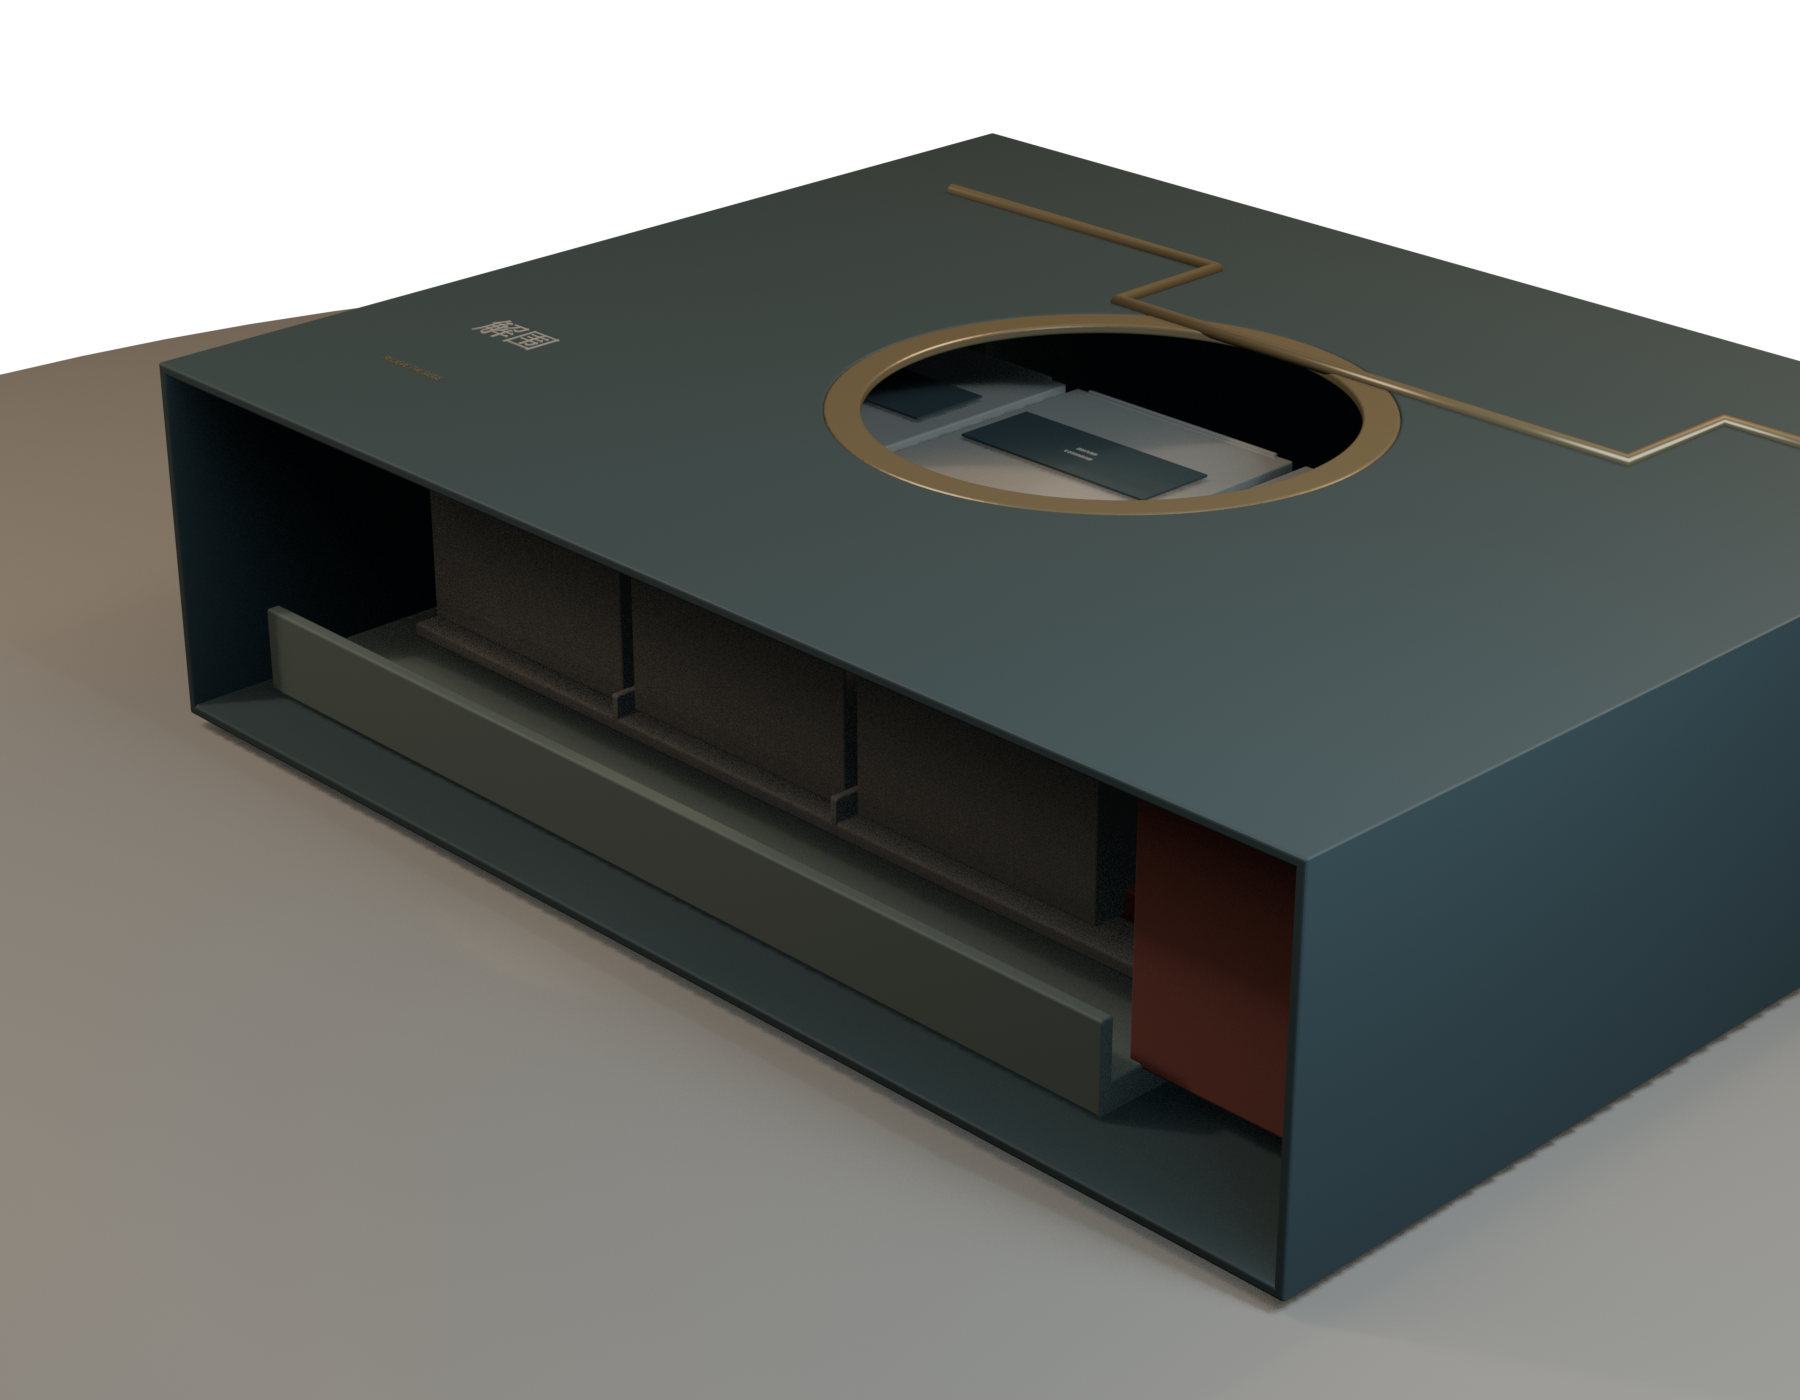
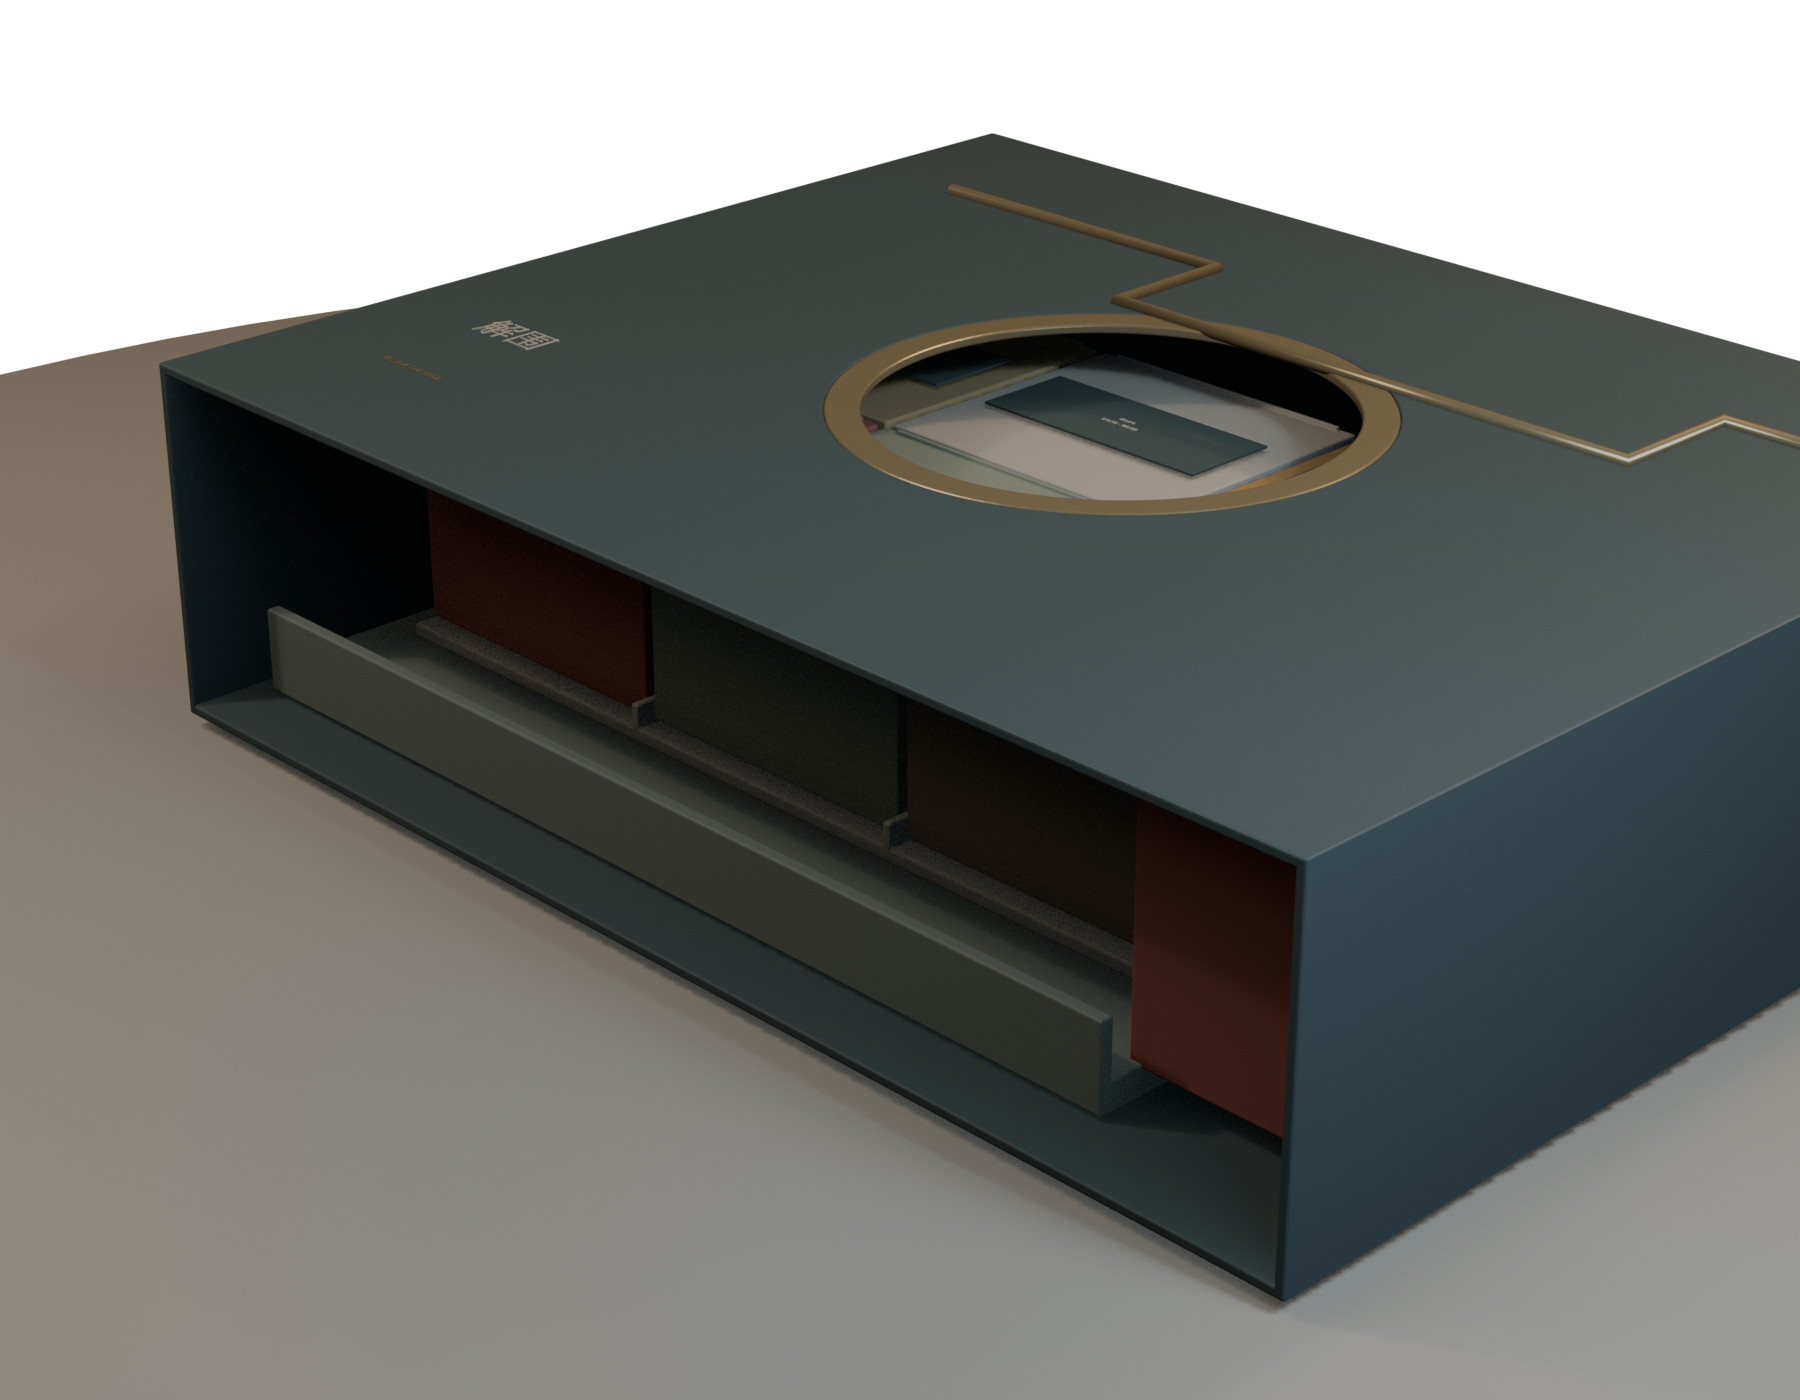
design: render realistic Jiewei concept packaging scenes

Changed region(s): [[0.4667, 0.2457, 0.7467, 0.3686], [0.3422, 0.4607, 0.3733, 0.5221], [0.4978, 0.5529, 0.5289, 0.5836]]

diff --git a/jiewei_giftbox_design/04_renders/render_giftbox.py b/jiewei_giftbox_design/04_renders/render_giftbox.py
@@ -16,21 +16,22 @@ PROJECT_DIR = RENDER_DIR.parent
 MESH_DIR = PROJECT_DIR / "03_cad" / "meshes"
 sys.path.insert(0, str(PROJECT_DIR / "scripts"))
 
-from design_config import BOX, COLORS, SKU, state_offsets  # noqa: E402
+from design_config import BOX, COLORS, CONCEPT_DISCLOSURE, PRODUCTS, state_offsets  # noqa: E402
 
 
 MM = 0.001
 PART_NAMES = (
     "outer_sleeve", "wei_drawer", "lock_key_left", "lock_key_right", "zhao_tray", "inner_liner", "moon_disc",
-    "sku_proxy_01", "sku_proxy_02", "sku_proxy_03", "sku_proxy_04", "sku_proxy_05", "sku_proxy_06",
+    "concept_module_A", "concept_module_B", "concept_module_C", "concept_module_D", "concept_module_E", "concept_module_F",
 )
-PROXY_NAMES = tuple(name for name in PART_NAMES if name.startswith("sku_proxy"))
+MODULE_NAMES = tuple(name for name in PART_NAMES if name.startswith("concept_module"))
 WEI_PARTS = ("wei_drawer", "lock_key_left", "lock_key_right")
-ZHAO_PARTS = ("zhao_tray", "inner_liner", *PROXY_NAMES)
+ZHAO_PARTS = ("zhao_tray", "inner_liner", *MODULE_NAMES)
 VIEW_NAMES = (
     "hero_closed.png", "hero_unlocked.png", "hero_open.png",
     "sequence_01.png", "sequence_02.png", "sequence_03.png", "sequence_04.png",
-    "exploded.png", "dieline_preview.png", "mid_autumn_variant.png", "national_day_variant.png", "ortho_top.png",
+    "exploded.png", "dieline_preview.png", "product_family.png", "hand_opening.png", "retail_scene.png",
+    "mid_autumn_variant.png", "national_day_variant.png", "ortho_top.png",
 )
 
 
@@ -47,13 +48,24 @@ def rgba(value: str, alpha: float = 1.0):
     return tuple(int(value[i:i + 2], 16) / 255 for i in (0, 2, 4)) + (alpha,)
 
 
-def mat(name: str, color: str, metallic: float = 0.0, roughness: float = 0.58):
+def mat(name: str, color: str, metallic: float = 0.0, roughness: float = 0.58, paper_texture: bool = False):
     material = bpy.data.materials.new(name)
     material.diffuse_color = rgba(color)
+    material.use_nodes = True
     node = material.node_tree.nodes.get("Principled BSDF")
     node.inputs["Base Color"].default_value = rgba(color)
     node.inputs["Metallic"].default_value = metallic
     node.inputs["Roughness"].default_value = roughness
+    if paper_texture:
+        noise = material.node_tree.nodes.new("ShaderNodeTexNoise")
+        noise.inputs["Scale"].default_value = 145.0
+        noise.inputs["Detail"].default_value = 2.0
+        noise.inputs["Roughness"].default_value = 0.68
+        bump = material.node_tree.nodes.new("ShaderNodeBump")
+        bump.inputs["Strength"].default_value = 0.12
+        bump.inputs["Distance"].default_value = 0.00035
+        material.node_tree.links.new(noise.outputs["Fac"], bump.inputs["Height"])
+        material.node_tree.links.new(bump.outputs["Normal"], node.inputs["Normal"])
     return material
 
 
@@ -149,20 +161,26 @@ def setup_scene():
     background.inputs["Strength"].default_value = 0.16
 
     materials = {
-        "wall": mat("Wall ink paper", COLORS["wall_ink"], 0.0, 0.5),
+        "wall": mat("Wall ink paper", COLORS["wall_ink"], 0.0, 0.5, True),
         "gold": mat("Moon gold foil", COLORS["moon_gold"], 0.48, 0.28),
-        "red": mat("Route red", COLORS["route_red"], 0.0, 0.46),
-        "green": mat("Mountain green", COLORS["mountain_green"], 0.0, 0.58),
-        "paper": mat("Moon paper", COLORS["paper_white"], 0.0, 0.68),
-        "proxy": mat("Neutral proxy", "#D8CEB8", 0.0, 0.7),
+        "red": mat("Route red", COLORS["route_red"], 0.0, 0.46, True),
+        "green": mat("Mountain green", COLORS["mountain_green"], 0.0, 0.58, True),
+        "paper": mat("Moon paper", COLORS["paper_white"], 0.0, 0.68, True),
         "ink": mat("Disclosure ink", "#253234", 0.0, 0.5),
-        "stage": mat("Warm stage", "#D8CEBA", 0.0, 0.72),
+        "stage": mat("Warm stage", "#D8CEBA", 0.0, 0.72, True),
+        "skin": mat("Neutral hand study", "#B9866C", 0.0, 0.52),
+        "wood": mat("Warm oak display", "#80644B", 0.0, 0.67, True),
+        "backdrop": mat("Gallery plaster", "#E8E0D2", 0.0, 0.82, True),
+    }
+    materials["products"] = {
+        item.code: mat(f"Concept {item.code} {item.display_name}", item.color, 0.0, 0.62, True)
+        for item in PRODUCTS
     }
     part_mats = {
         "outer_sleeve": materials["wall"], "wei_drawer": materials["red"],
         "lock_key_left": materials["red"], "lock_key_right": materials["red"],
         "zhao_tray": materials["green"], "inner_liner": materials["paper"], "moon_disc": materials["gold"],
-        **{name: materials["proxy"] for name in PROXY_NAMES},
+        **{f"concept_module_{item.code}": materials["products"][item.code] for item in PRODUCTS},
     }
     objects = {name: import_part(name, part_mats[name]) for name in PART_NAMES}
     stage = add_stage(materials["stage"])
@@ -171,15 +189,23 @@ def setup_scene():
     serif = PROJECT_DIR / "01_research/fonts/NotoSerifSC[wght].ttf"
     labels = {}
     label_plates = {}
-    for index, name in enumerate(PROXY_NAMES):
-        x = (20 + (index % 3) * 63 + 30 - BOX.width / 2) * MM
-        y = (48 + (index // 3) * 64 + 30 - BOX.depth / 2) * MM
-        bpy.ops.mesh.primitive_cube_add(location=(x, y, 0.04915), scale=(0.025, 0.0095, 0.00025))
+    for index, (name, product) in enumerate(zip(MODULE_NAMES, PRODUCTS)):
+        x = (19 + (index % 3) * 70 + 34 - BOX.width / 2) * MM
+        y = (48 + (index // 3) * 64 + 31 - BOX.depth / 2) * MM
+        bpy.ops.mesh.primitive_cube_add(location=(x, y, 0.05815), scale=(0.028, 0.011, 0.00025))
         plate = bpy.context.object
         plate.name = f"plate_{name}"
         plate.data.materials.append(materials["wall"])
         label_plates[name] = plate
-        labels[name] = add_text(f"label_{name}", "规格代理件\n非实际商品包装", (x, y, 0.0495), materials["paper"], 0.0031, sans, "CENTER")
+        labels[name] = add_text(
+            f"label_{name}",
+            f"{product.display_name}\n{product.category} · 概念包装",
+            (x, y, 0.0585),
+            materials["paper"],
+            0.0028,
+            sans,
+            "CENTER",
+        )
 
     branding = [
         add_text("jiewei_wordmark", "解围", (-0.118, -0.055, 0.0754), materials["paper"], 0.027, serif),
@@ -217,7 +243,7 @@ def apply_state(objects, labels, label_plates, state: str, wei_ratio=1.0, zhao_r
         objects[name].location.x += wei
     for name in ZHAO_PARTS:
         objects[name].location.y += zhao
-    for name in PROXY_NAMES:
+    for name in MODULE_NAMES:
         labels[name].location.y += zhao
         label_plates[name].location.y += zhao
 
@@ -264,6 +290,60 @@ def add_season_label(text_value: str, material, font_path: Path):
     return add_text("season_label", text_value, (-0.11, 0.012, 0.0755), material, 0.0115, font_path)
 
 
+def add_rounded_box(name: str, location, scale, material, rotation=(0.0, 0.0, 0.0), bevel=0.004):
+    bpy.ops.mesh.primitive_cube_add(location=location, scale=scale, rotation=rotation)
+    obj = bpy.context.object
+    obj.name = name
+    obj.data.materials.append(material)
+    modifier = obj.modifiers.new(f"{name} softness", "BEVEL")
+    modifier.width = bevel
+    modifier.segments = 5
+    return obj
+
+
+def add_hand_proxy(material):
+    """Add an intentionally neutral, low-detail hand study for scale and motion."""
+    hand = [
+        add_rounded_box("hand_palm", (0.235, -0.005, 0.102), (0.052, 0.038, 0.012), material, (0.0, -0.08, 0.12), 0.012),
+        add_rounded_box("hand_wrist", (0.29, 0.018, 0.105), (0.055, 0.028, 0.014), material, (0.0, -0.08, 0.12), 0.012),
+    ]
+    for index, y in enumerate((-0.031, -0.014, 0.004, 0.022)):
+        hand.append(
+            add_rounded_box(
+                f"hand_finger_{index}",
+                (0.178 - index * 0.004, y, 0.091 + index * 0.002),
+                (0.038 - index * 0.002, 0.0065, 0.0065),
+                material,
+                (0.0, -0.12, -0.08 + index * 0.035),
+                0.006,
+            )
+        )
+    hand.append(
+        add_rounded_box("hand_thumb", (0.198, 0.045, 0.078), (0.030, 0.008, 0.008), material, (0.0, 0.26, -0.48), 0.007)
+    )
+    return hand
+
+
+def add_retail_scene(materials, serif_path: Path):
+    extras = [
+        add_rounded_box("retail_floor", (0.0, 0.0, -0.025), (0.45, 0.34, 0.012), materials["wood"], bevel=0.006),
+        add_rounded_box("retail_wall", (0.0, 0.34, 0.27), (0.45, 0.012, 0.30), materials["backdrop"], bevel=0.008),
+        add_rounded_box("retail_riser_left", (-0.25, 0.09, 0.045), (0.07, 0.07, 0.055), materials["paper"], bevel=0.008),
+        add_rounded_box("retail_riser_right", (0.25, 0.12, 0.075), (0.055, 0.055, 0.085), materials["green"], bevel=0.008),
+    ]
+    sign = add_text("retail_sign", "六味邯郸", (-0.115, 0.326, 0.32), materials["wall"], 0.036, serif_path)
+    sign.rotation_euler = (1.5708, 0.0, 0.0)
+    extras.append(sign)
+    route = add_curve(
+        "retail_route",
+        [(-0.27, 0.322, 0.21), (-0.08, 0.322, 0.21), (-0.08, 0.322, 0.17), (0.18, 0.322, 0.17), (0.18, 0.322, 0.22), (0.28, 0.322, 0.22)],
+        materials["gold"],
+        0.002,
+    )
+    extras.append(route)
+    return extras
+
+
 def main() -> None:
     RENDER_DIR.mkdir(parents=True, exist_ok=True)
     scene, camera, objects, labels, label_plates, branding, materials, stage = setup_scene()
@@ -274,14 +354,15 @@ def main() -> None:
     }
     base = remember(all_dynamic)
     manifest = {
-        "geometry_basis": "audited STL",
+        "geometry_basis": "audited STL from concept_v2 CAD",
         "cad_mesh_sha256": {name: sha256(MESH_DIR / f"{name}.stl") for name in PART_NAMES},
-        "identity_assets": ["02_identity/mid_autumn_sleeve.svg", "02_identity/national_day_sleeve.svg", "02_identity/proxy_product_labels.svg"],
-        "product_asset_status": "neutral_size_proxy",
-        "proxy_label": SKU.label,
+        "identity_assets": ["02_identity/mid_autumn_sleeve.svg", "02_identity/national_day_sleeve.svg", "02_identity/concept_product_labels.svg"],
+        "product_asset_status": "original_concept_secondary_packaging",
+        "concept_disclosure": CONCEPT_DISCLOSURE,
+        "scene_status": "visualisation_not_product_photography",
         "engine": scene.render.engine,
         "views": {},
-        "boundary": "Digital paperboard and neutral-size-proxy render; no real brand asset, food product or physical validation is implied.",
+        "boundary": "Original digital concept packaging visualisation; no existing logo, actual SKU, production, food compliance or physical validation is implied.",
     }
 
     set_camera(camera, (0.38, -0.40, 0.29), (0.0, 0.0, 0.035), 68)
@@ -311,7 +392,7 @@ def main() -> None:
     }
     for name, offset in explode.items():
         objects[name].location += Vector(offset)
-    for i, name in enumerate(PROXY_NAMES):
+    for i, name in enumerate(MODULE_NAMES):
         objects[name].location.z += 0.075 + i * 0.008
         labels[name].location.z += 0.075 + i * 0.008
         label_plates[name].location.z += 0.075 + i * 0.008
@@ -332,6 +413,32 @@ def main() -> None:
         bpy.data.objects.remove(obj, do_unlink=True)
     for obj in [*objects.values(), *labels.values(), *label_plates.values(), *branding, stage]:
         obj.hide_render = False
+
+    restore(all_dynamic, base)
+    apply_state(objects, labels, label_plates, "open")
+    for name in ("outer_sleeve", "wei_drawer", "lock_key_left", "lock_key_right", "moon_disc"):
+        objects[name].hide_render = True
+    for obj in branding:
+        obj.hide_render = True
+    set_camera(camera, (0.23, -0.48, 0.42), (0.0, -0.08, 0.04), 78)
+    render(scene, camera, "product_family.png", manifest)
+    for obj in branding:
+        obj.hide_render = False
+
+    restore(all_dynamic, base)
+    apply_state(objects, labels, label_plates, "unlocked")
+    hand = add_hand_proxy(materials["skin"])
+    set_camera(camera, (0.47, -0.45, 0.31), (0.04, -0.01, 0.055), 70)
+    render(scene, camera, "hand_opening.png", manifest)
+    for obj in hand:
+        bpy.data.objects.remove(obj, do_unlink=True)
+
+    restore(all_dynamic, base)
+    retail = add_retail_scene(materials, PROJECT_DIR / "01_research/fonts/NotoSerifSC[wght].ttf")
+    set_camera(camera, (0.42, -0.52, 0.31), (0.0, 0.035, 0.07), 64)
+    render(scene, camera, "retail_scene.png", manifest)
+    for obj in retail:
+        bpy.data.objects.remove(obj, do_unlink=True)
 
     serif = PROJECT_DIR / "01_research/fonts/NotoSerifSC[wght].ttf"
     restore(all_dynamic, base)

diff --git a/jiewei_giftbox_design/tests/test_render_outputs.py b/jiewei_giftbox_design/tests/test_render_outputs.py
@@ -4,7 +4,17 @@ import unittest
 from PIL import Image, ImageChops
 
 ROOT = Path(__file__).resolve().parents[1]
-REQUIRED = ("hero_closed.png", "hero_unlocked.png", "hero_open.png", "exploded.png", "mid_autumn_variant.png", "national_day_variant.png")
+REQUIRED = (
+    "hero_closed.png",
+    "hero_unlocked.png",
+    "hero_open.png",
+    "exploded.png",
+    "product_family.png",
+    "hand_opening.png",
+    "retail_scene.png",
+    "mid_autumn_variant.png",
+    "national_day_variant.png",
+)
 
 
 class RenderTests(unittest.TestCase):
@@ -15,10 +25,11 @@ class RenderTests(unittest.TestCase):
                 self.assertEqual(image.mode, "RGBA")
                 self.assertIsNotNone(ImageChops.difference(image.getchannel("A"), Image.new("L", image.size, 0)).getbbox())
 
-    def test_manifest_discloses_proxy_products(self):
+    def test_manifest_discloses_concept_products(self):
         data = json.loads((ROOT / "04_renders" / "render_manifest.json").read_text(encoding="utf-8"))
-        self.assertEqual(data["product_asset_status"], "neutral_size_proxy")
-        self.assertEqual(data["geometry_basis"], "audited STL")
+        self.assertEqual(data["product_asset_status"], "original_concept_secondary_packaging")
+        self.assertEqual(data["geometry_basis"], "audited STL from concept_v2 CAD")
+        self.assertEqual(data["scene_status"], "visualisation_not_product_photography")
 
 
 if __name__ == "__main__":
